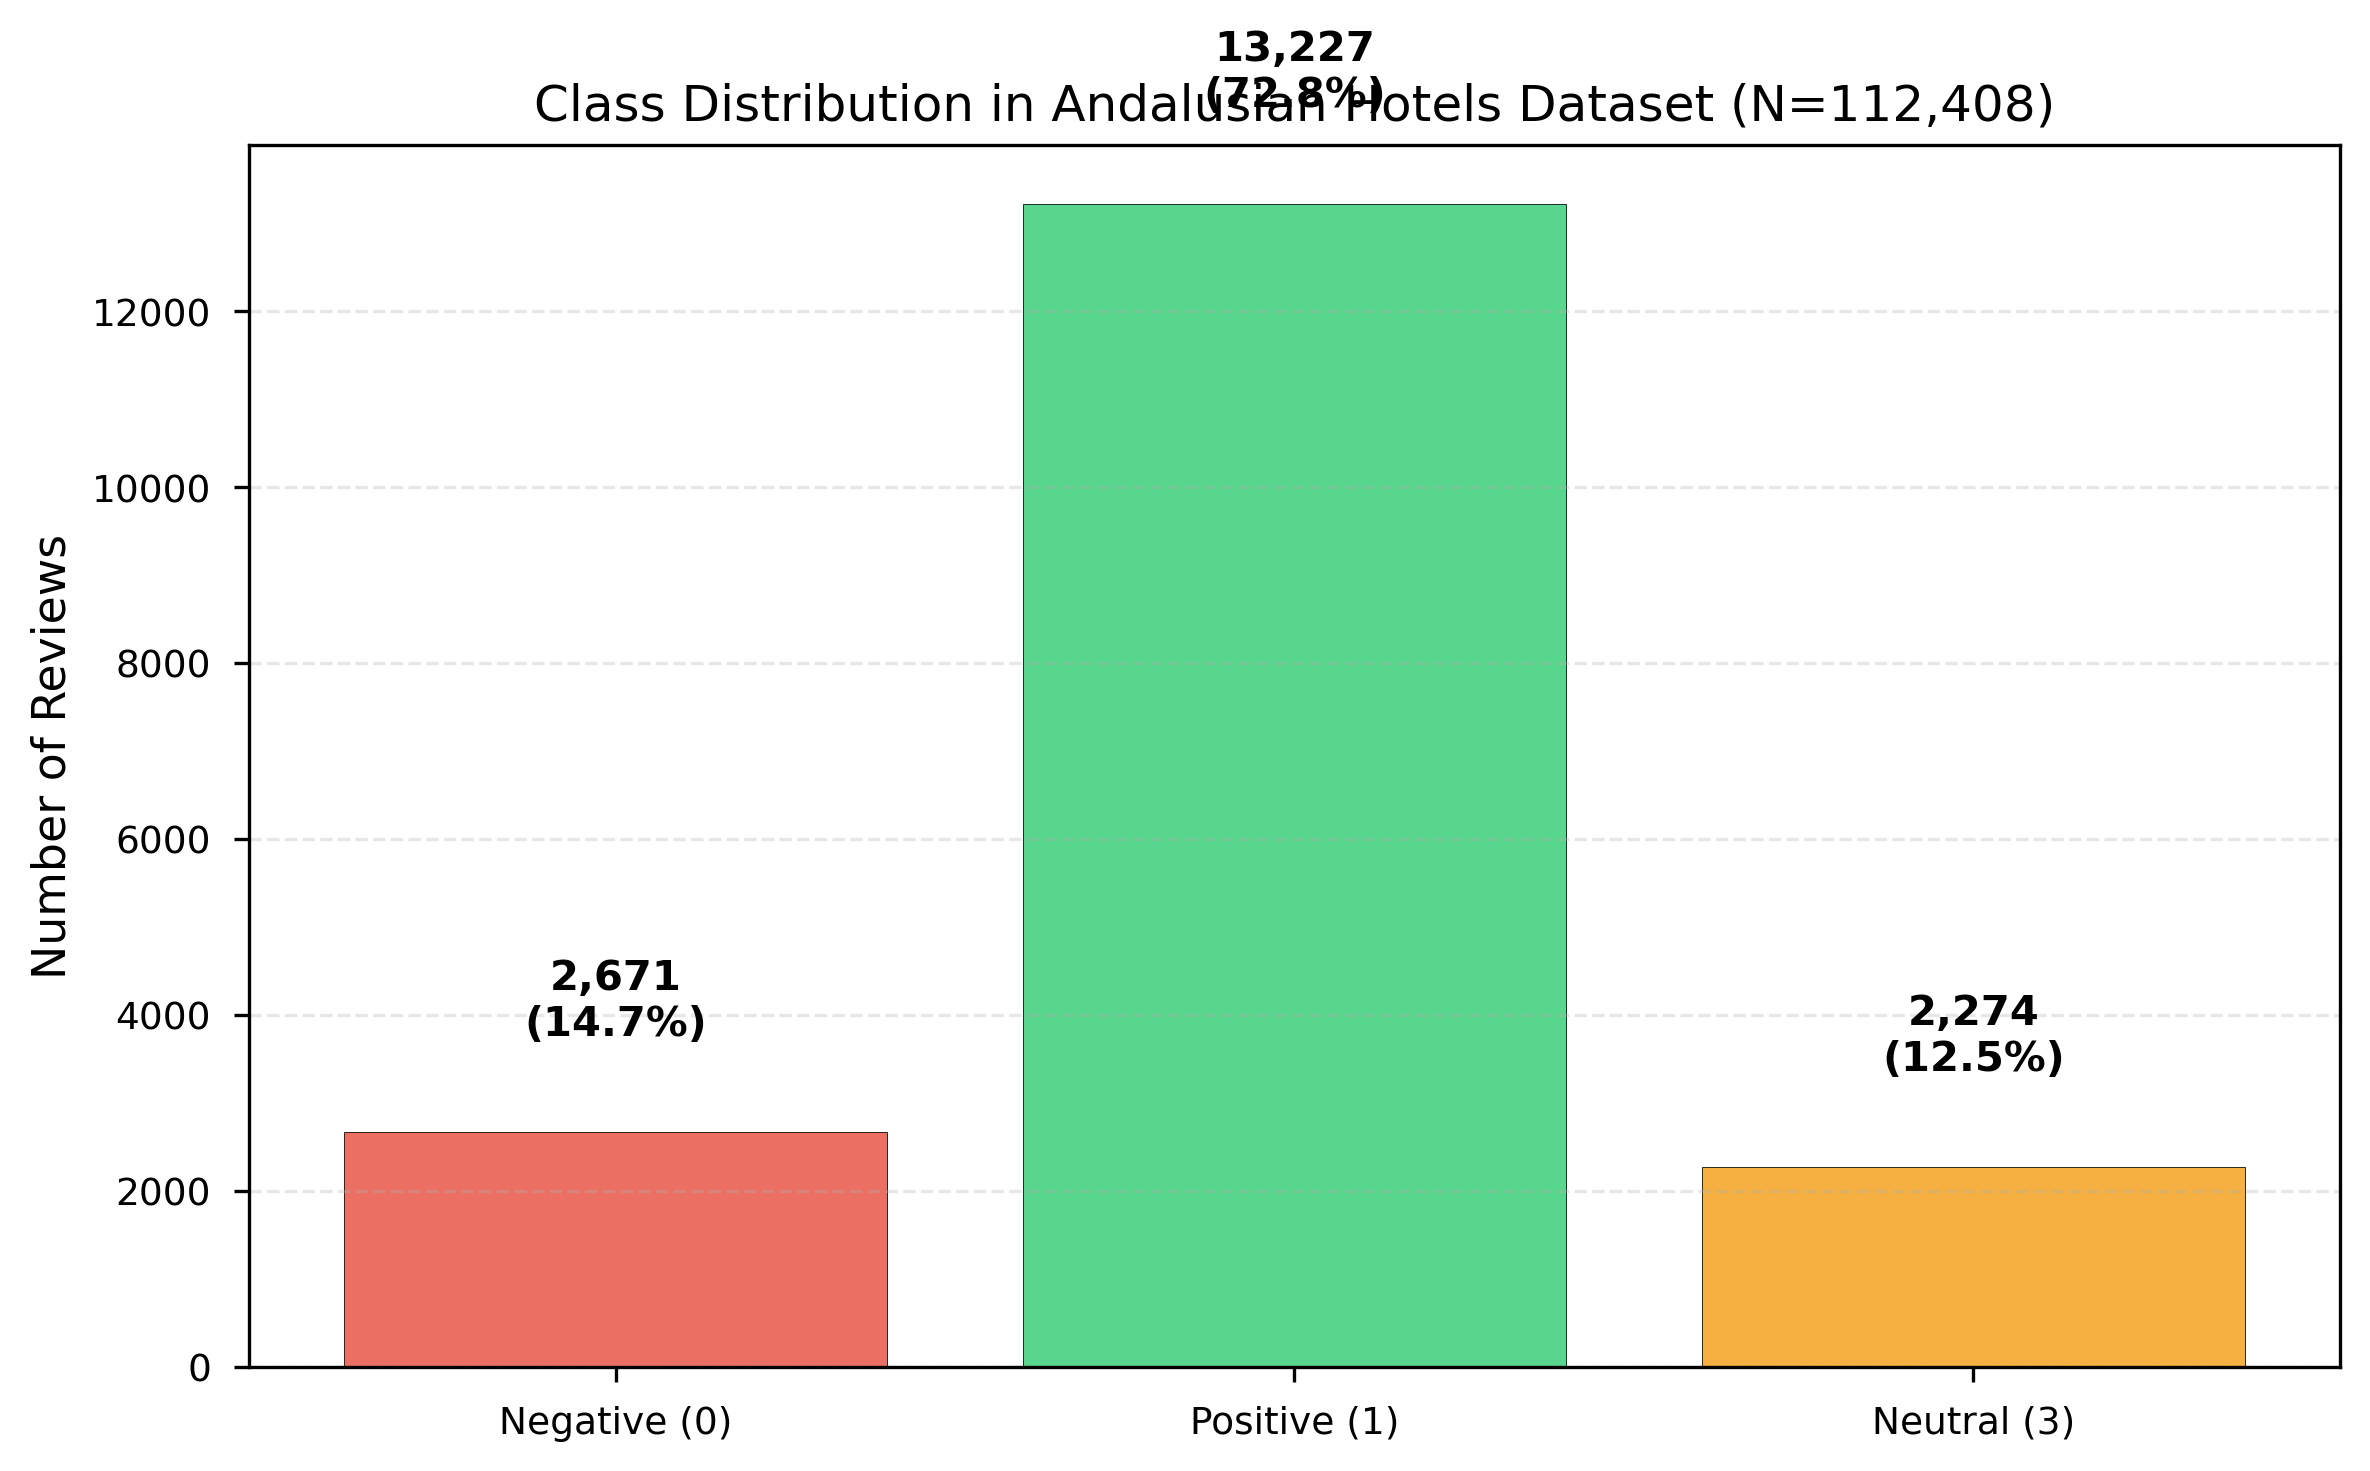
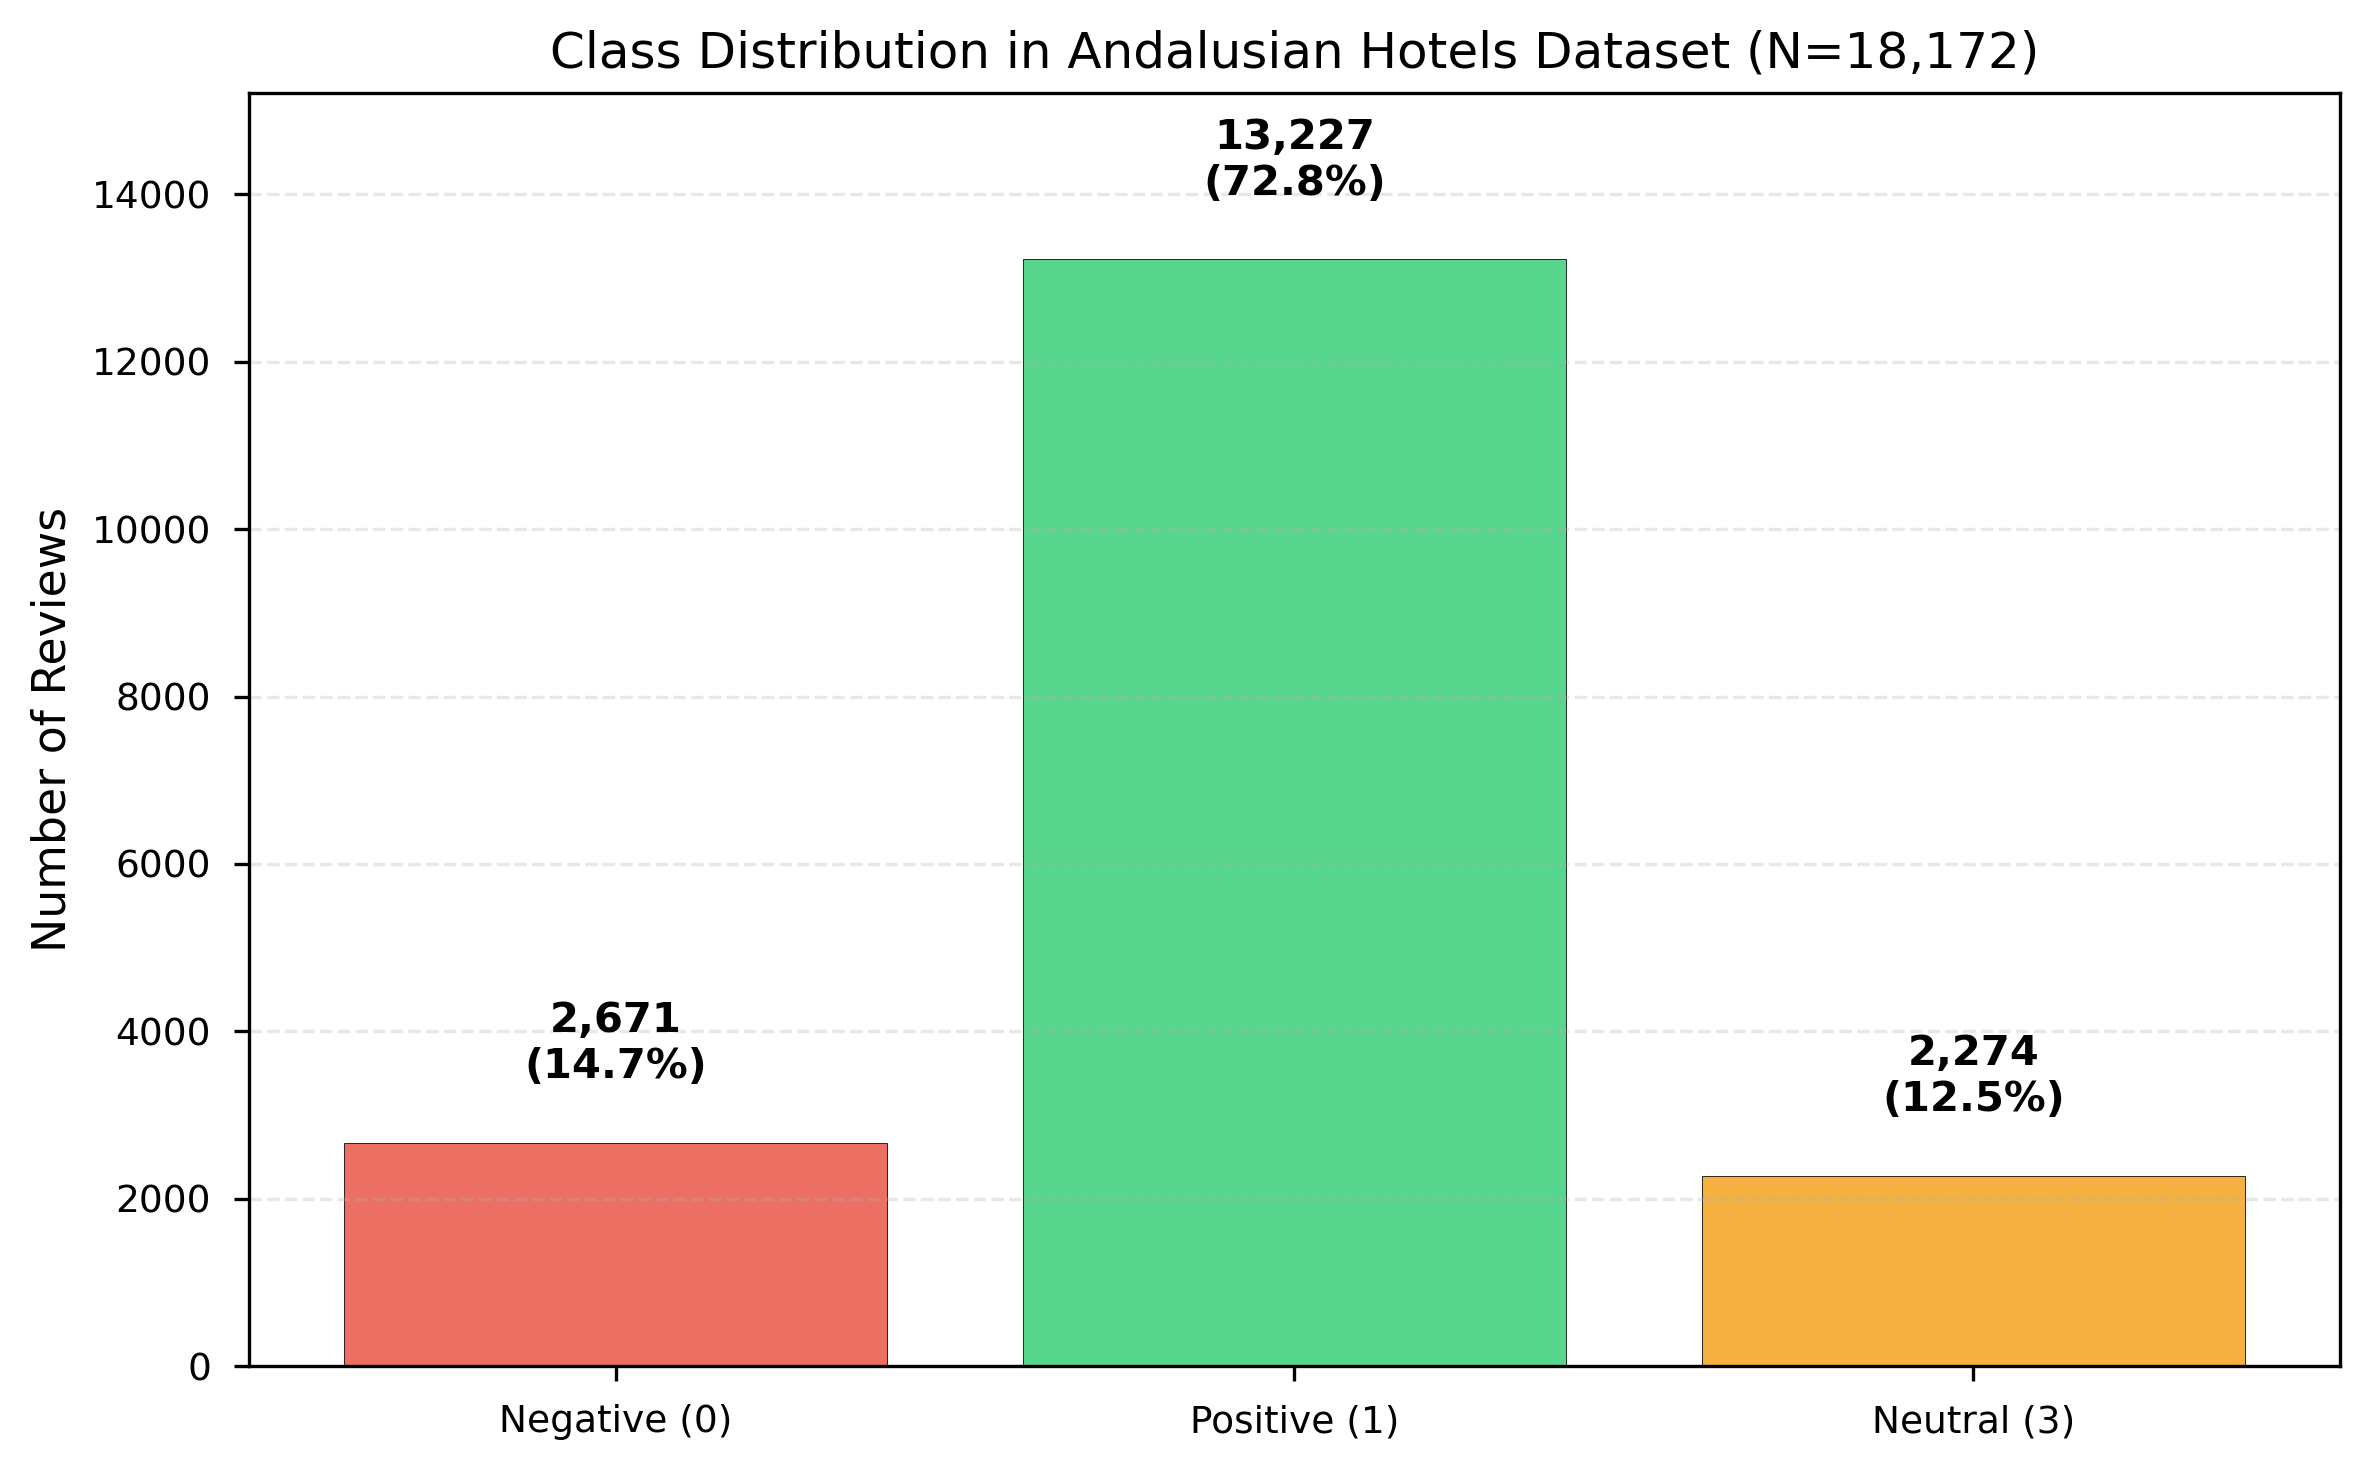
fix: regenerate figure 1 with correct dataset size and label positioning
- Fix title: N=112,408 → N=18,172 (uses actual dataset size)
- Fix label positioning: dynamic offset (5% of max height) instead of fixed 1000
- Adjust ylim to accommodate labels (1.15x max height)
- Update output directory: figures → figuras
- Update figure filename: fig1_class_distribution → fig01_distribucion_clases
- Update references in documentation

diff --git a/scripts/generate_figures.py b/scripts/generate_figures.py
@@ -20,7 +20,7 @@ plt.rcParams['ytick.labelsize'] = 9
 plt.rcParams['legend.fontsize'] = 9
 
 # Create output directory
-output_dir = Path('reports/phase2/figures')
+output_dir = Path('reports/phase2/figuras')
 output_dir.mkdir(parents=True, exist_ok=True)
 
 # Load data
@@ -54,19 +54,27 @@ bars = ax.bar(range(len(label_counts)), label_counts.values, color=colors, alpha
 ax.set_xticks(range(len(label_counts)))
 ax.set_xticklabels(label_names, rotation=0)
 ax.set_ylabel('Number of Reviews')
-ax.set_title('Class Distribution in Andalusian Hotels Dataset (N=112,408)')
+total_reviews = len(df_data)
+ax.set_title(f'Class Distribution in Andalusian Hotels Dataset (N={total_reviews:,})')
 ax.grid(axis='y', alpha=0.3, linestyle='--')
+
+# Calculate dynamic offset for labels (5% of max height)
+max_height = max(label_counts.values)
+label_offset = max_height * 0.05
 
 # Add percentage labels on bars
 for i, (bar, count) in enumerate(zip(bars, label_counts.values)):
-    percentage = (count / len(df_data)) * 100
-    ax.text(bar.get_x() + bar.get_width()/2, bar.get_height() + 1000, 
+    percentage = (count / total_reviews) * 100
+    ax.text(bar.get_x() + bar.get_width()/2, bar.get_height() + label_offset, 
             f'{count:,}\n({percentage:.1f}%)', 
-            ha='center', va='bottom', fontweight='bold')
+            ha='center', va='bottom', fontweight='bold', fontsize=10)
+
+# Adjust ylim to accommodate labels
+ax.set_ylim(0, max_height * 1.15)
 
 plt.tight_layout()
-plt.savefig(output_dir / 'fig1_class_distribution.png', bbox_inches='tight')
-plt.savefig(output_dir / 'fig1_class_distribution.pdf', bbox_inches='tight')
+plt.savefig(output_dir / 'fig01_distribucion_clases.png', bbox_inches='tight')
+plt.savefig(output_dir / 'fig01_distribucion_clases.pdf', bbox_inches='tight')
 print("✓ Figure 1: Class Distribution")
 plt.close()
 

diff --git a/reports/phase2/ieee_paper/README.md b/reports/phase2/ieee_paper/README.md
@@ -38,9 +38,9 @@ El artículo incluye:
 
 ## Figuras Incluidas
 
-El artículo referencia 8 figuras en formato PDF (ubicadas en `../figures/`):
+El artículo referencia 8 figuras en formato PDF (ubicadas en `../figuras/`):
 
-1. `fig1_class_distribution.pdf` - Distribución de clases en el dataset
+1. `fig01_distribucion_clases.pdf` - Distribución de clases en el dataset
 2. `fig2_length_distribution.pdf` - Distribución de longitud de reseñas por clase
 3. `fig3_f1_comparison.pdf` - Comparación de F1-macro por arquitectura
 4. `fig4_uni_vs_bi.pdf` - Comparación unidireccional vs bidireccional

diff --git a/reports/phase2/entregas/03_reporte_tecnico.md b/reports/phase2/entregas/03_reporte_tecnico.md
@@ -2897,8 +2897,8 @@ DeepLearningP2/
 │   └── experiments.csv              # Registro central de experimentos
 ├── reports/
 │   └── phase2/
-│       ├── figures/                 # Gráficos generados
-│       │   ├── fig1_class_distribution.png
+│       ├── figuras/                 # Gráficos generados
+│       │   ├── fig01_distribucion_clases.png
 │       │   ├── fig2_length_distribution.png
 │       │   └── ...
 │       ├── ieee_paper/              # Artículo IEEE
